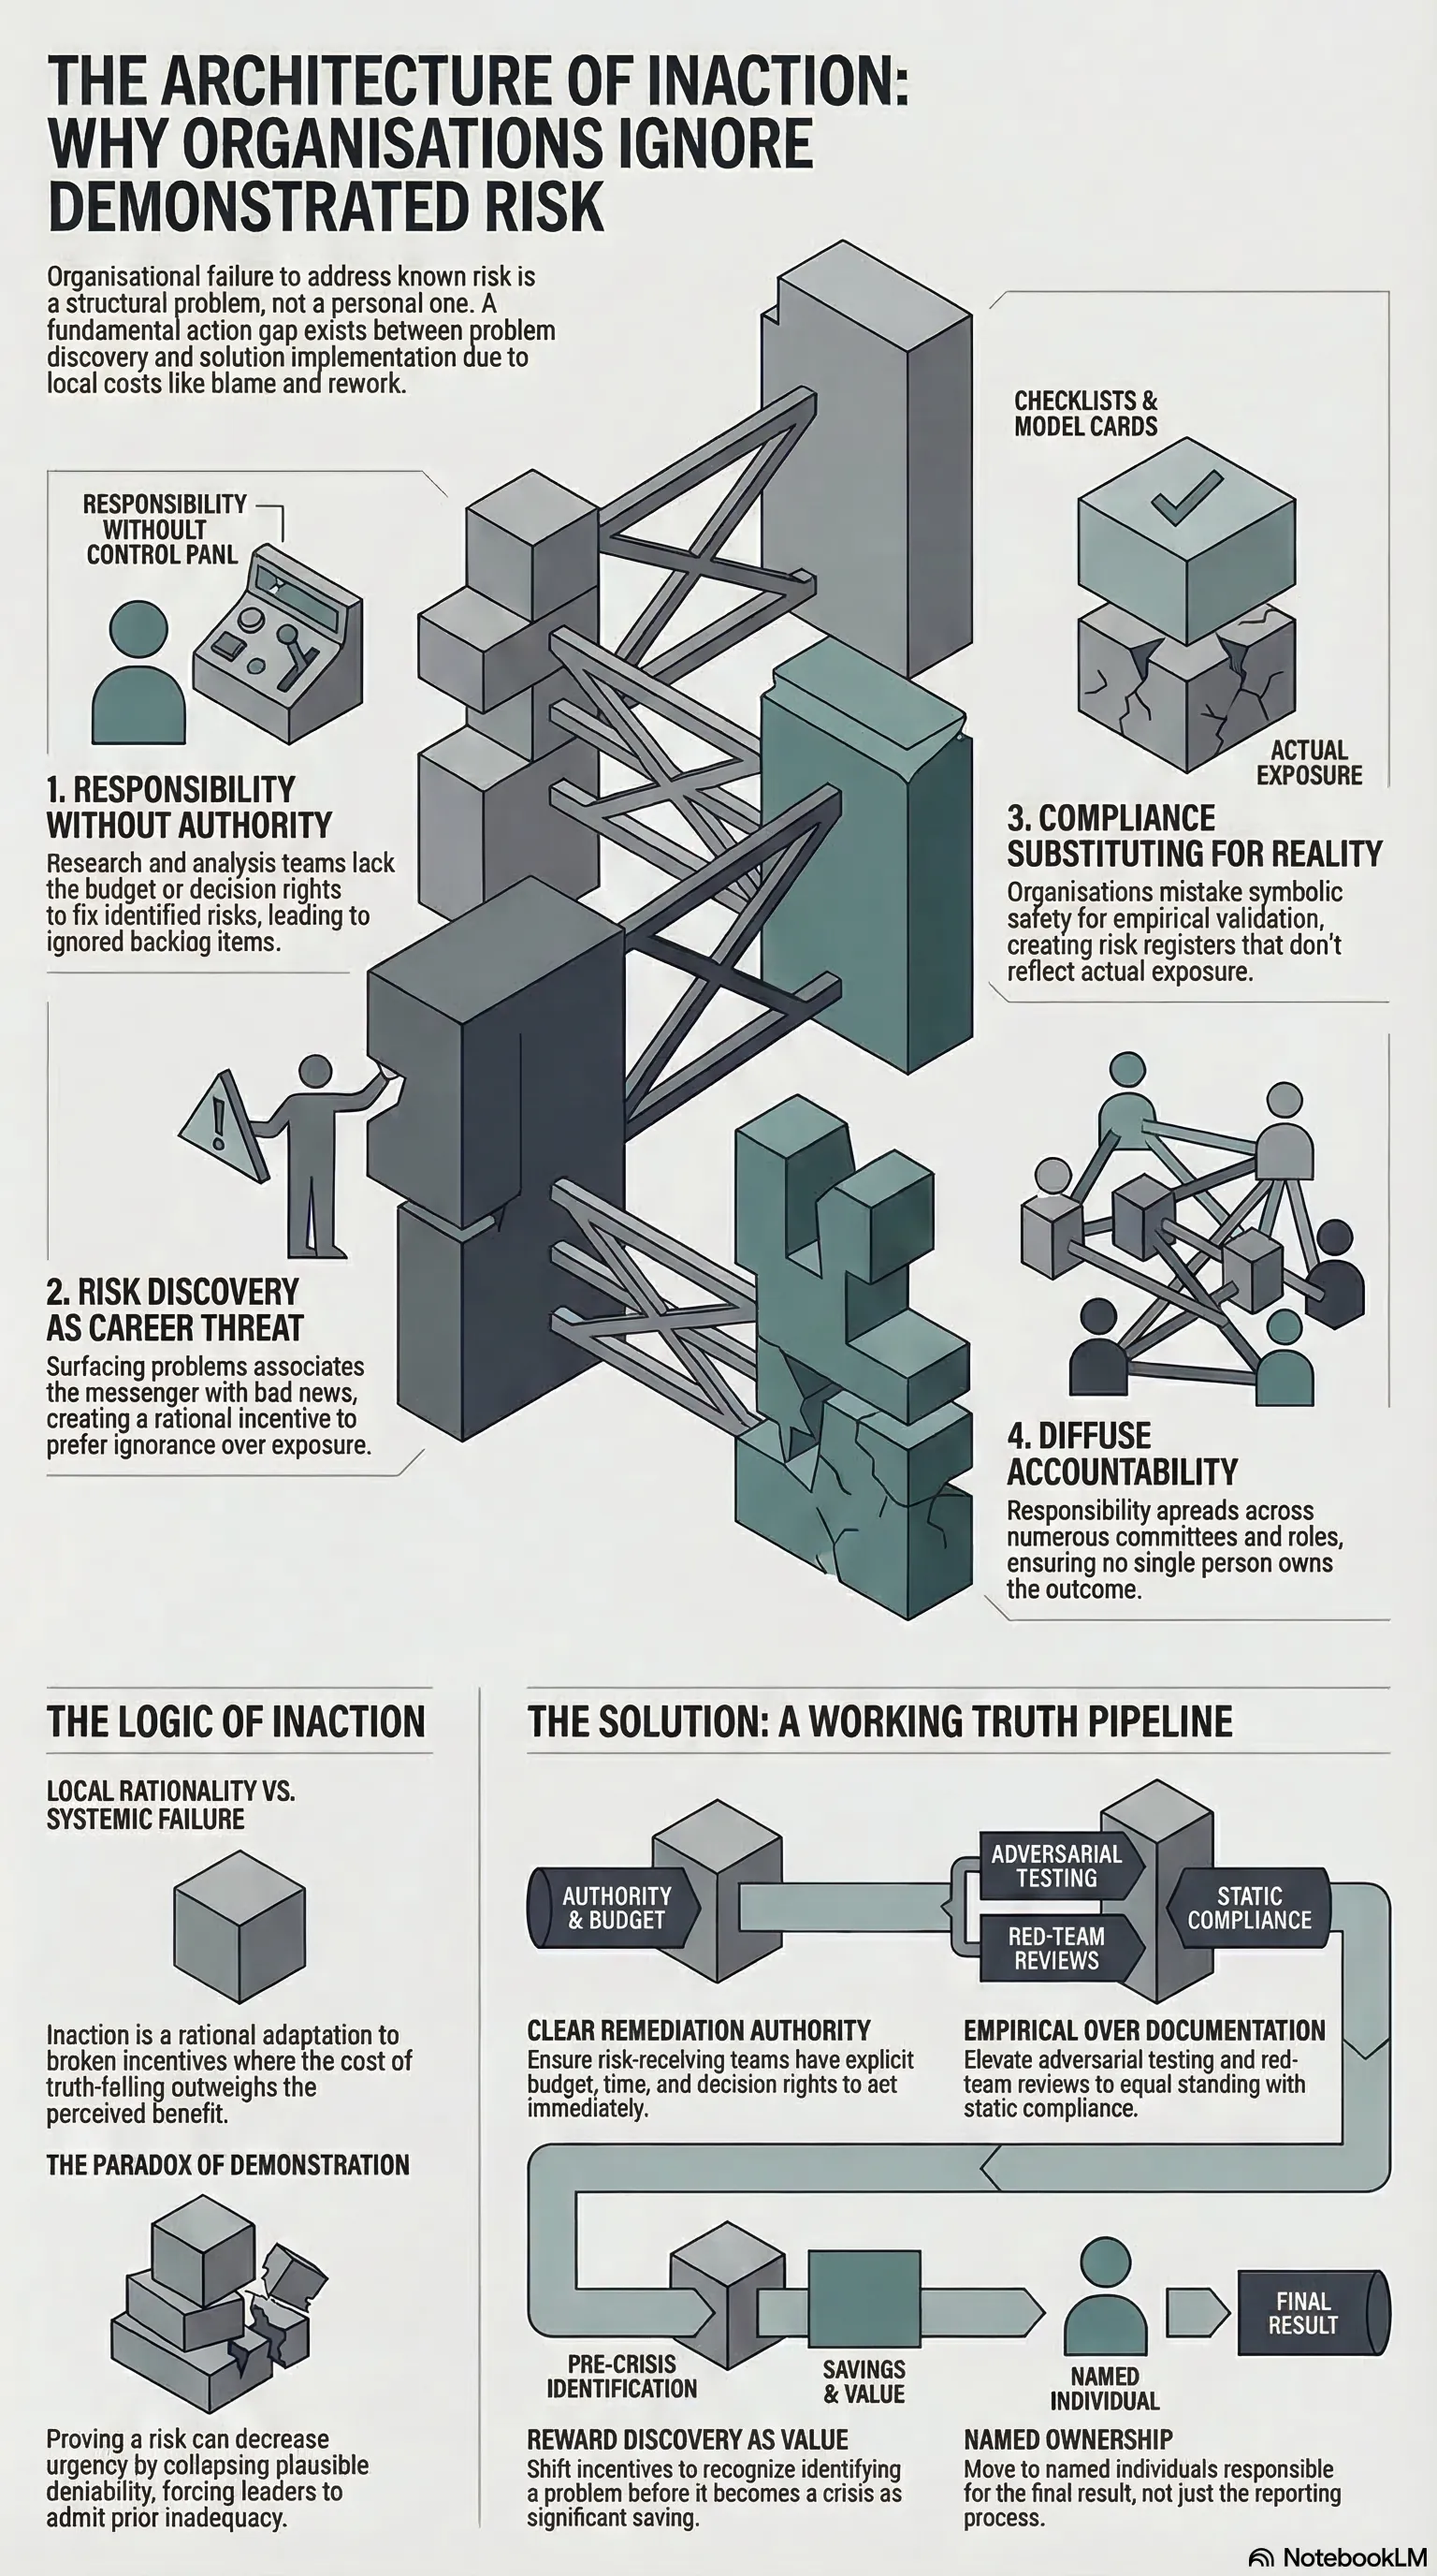
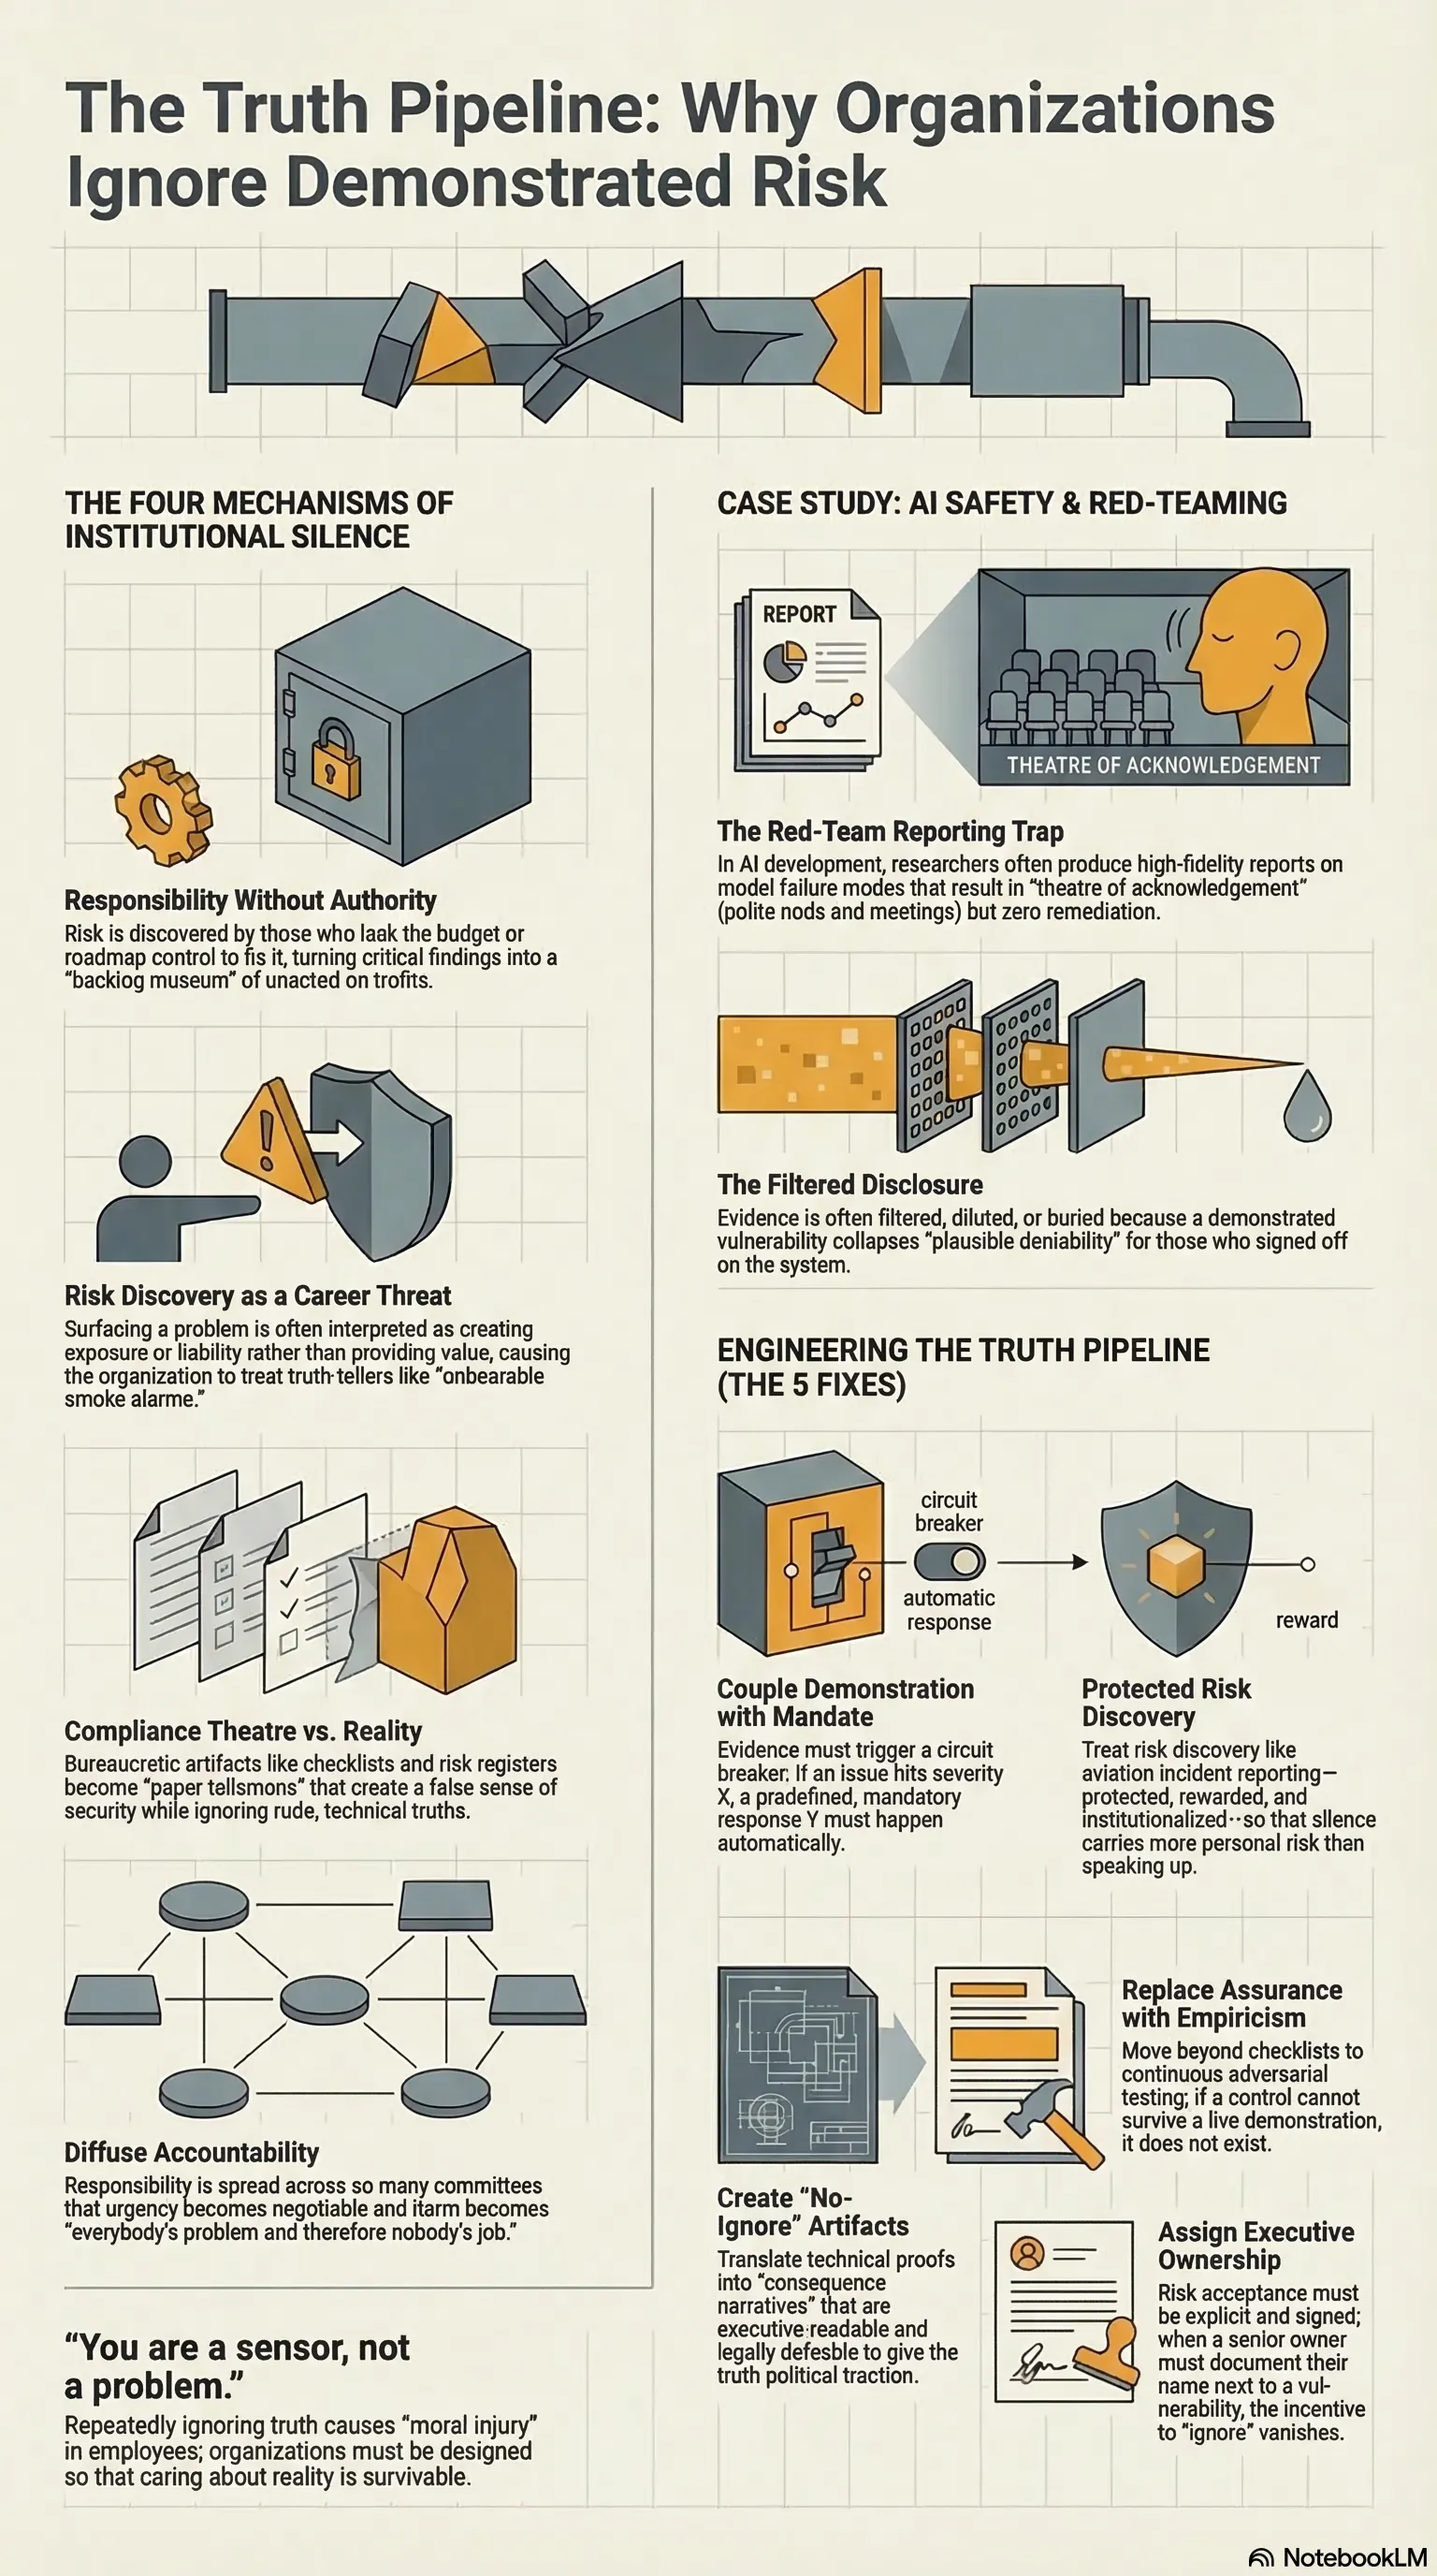
Replace hero images with source-aware NLM infographics
This Wasn't in the Brochure: generated from 4 chapters + CLAUDE.md,
nautical journey metaphor, co-parenting ND field guide.

Why Demonstrated Risk Is Ignored: generated from v1.1 paper +
blog post + project page, four structural mechanisms.

Both portrait, detailed, professional style with custom focus.

diff --git a/src/content/projects/why-demonstrated-risk-is-ignored.md b/src/content/projects/why-demonstrated-risk-is-ignored.md
@@ -6,7 +6,7 @@ repo: "why-demonstrated-risk-is-ignored"
 status: "complete"
 featured: true
 date: 2026-02-07
-heroImage: "/images/projects/why-demonstrated-risk-is-ignored-hero.webp"
+heroImage: "/notebook-assets/why-demonstrated-risk-is-ignored/infographic.webp"
 ---
 
 You show someone evidence of harm. They acknowledge the evidence. Then they proceed as if the evidence doesn't exist. This isn't stupidity or denial—it's something more structural, and more dangerous.

diff --git a/src/content/projects/this-wasnt-in-the-brochure.md b/src/content/projects/this-wasnt-in-the-brochure.md
@@ -7,7 +7,7 @@ repo: "This-Wasn-t-in-the-Brochure"
 status: "active"
 featured: true
 date: 2026-02-08
-heroImage: "/images/projects/this-wasnt-in-the-brochure-hero.webp"
+heroImage: "/notebook-assets/this-wasnt-in-the-brochure/infographic.webp"
 series: "This Wasn't in the Brochure"
 seriesOrder: 1
 ---
